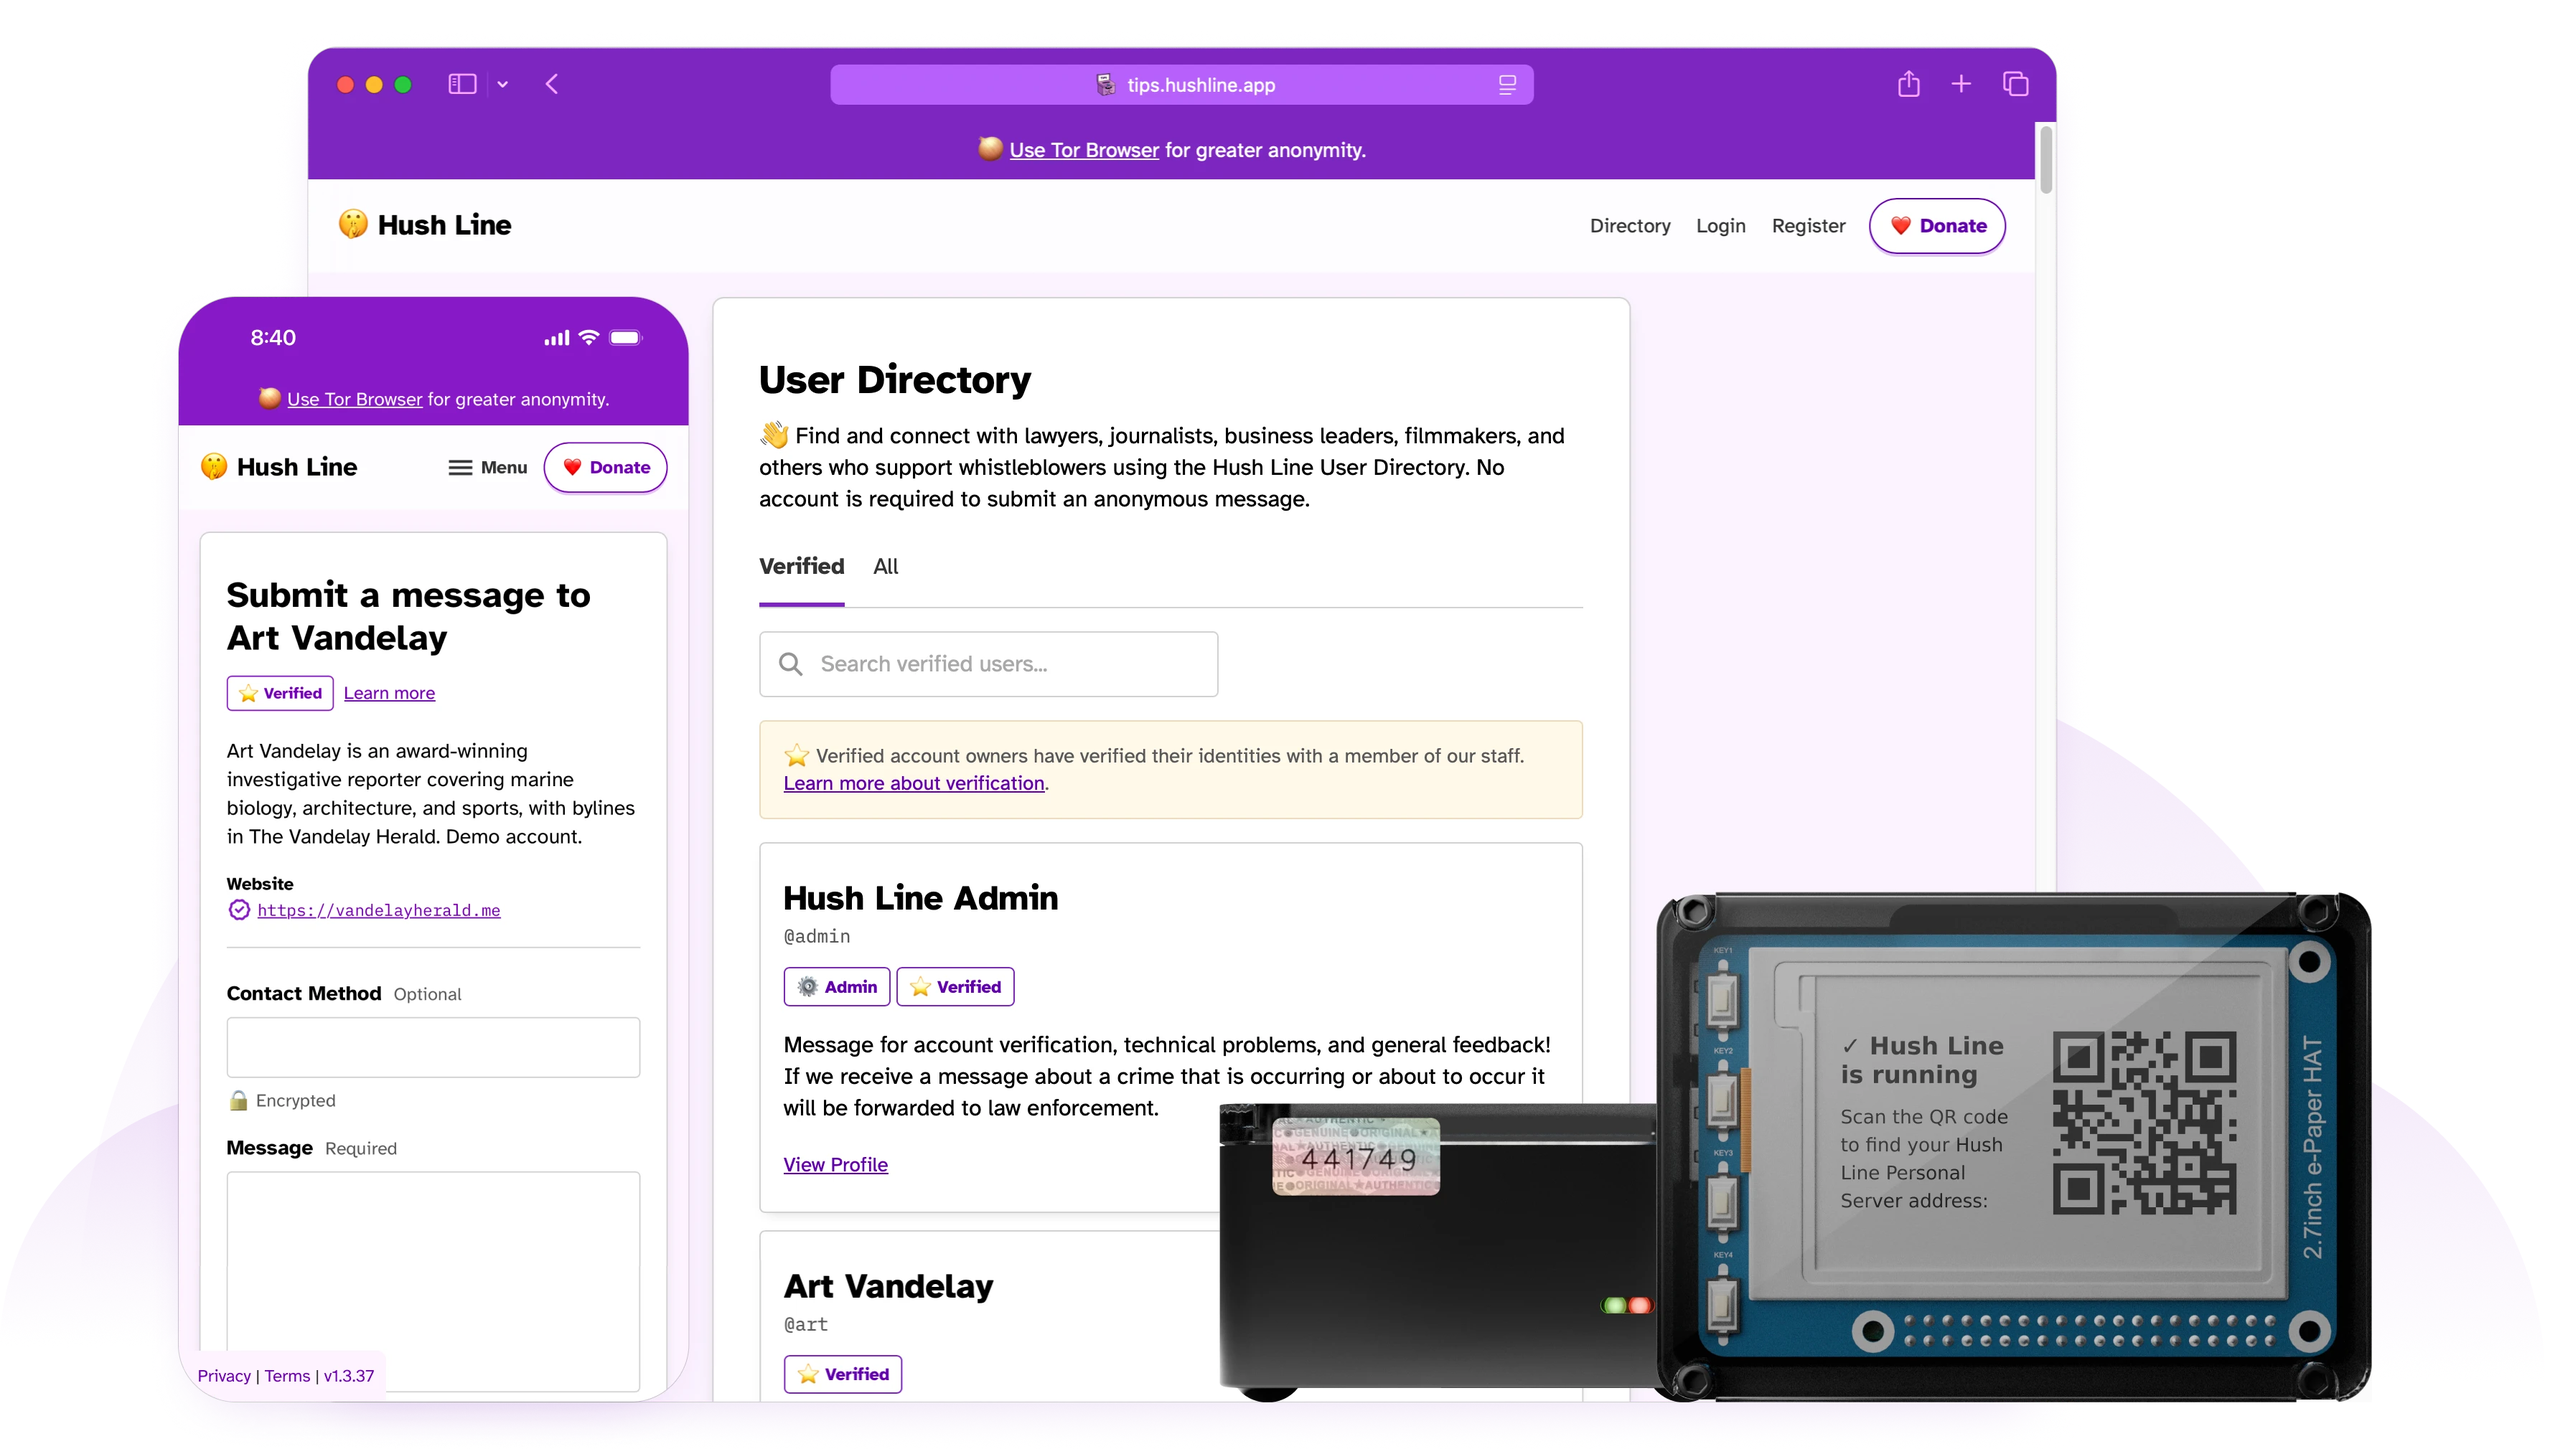
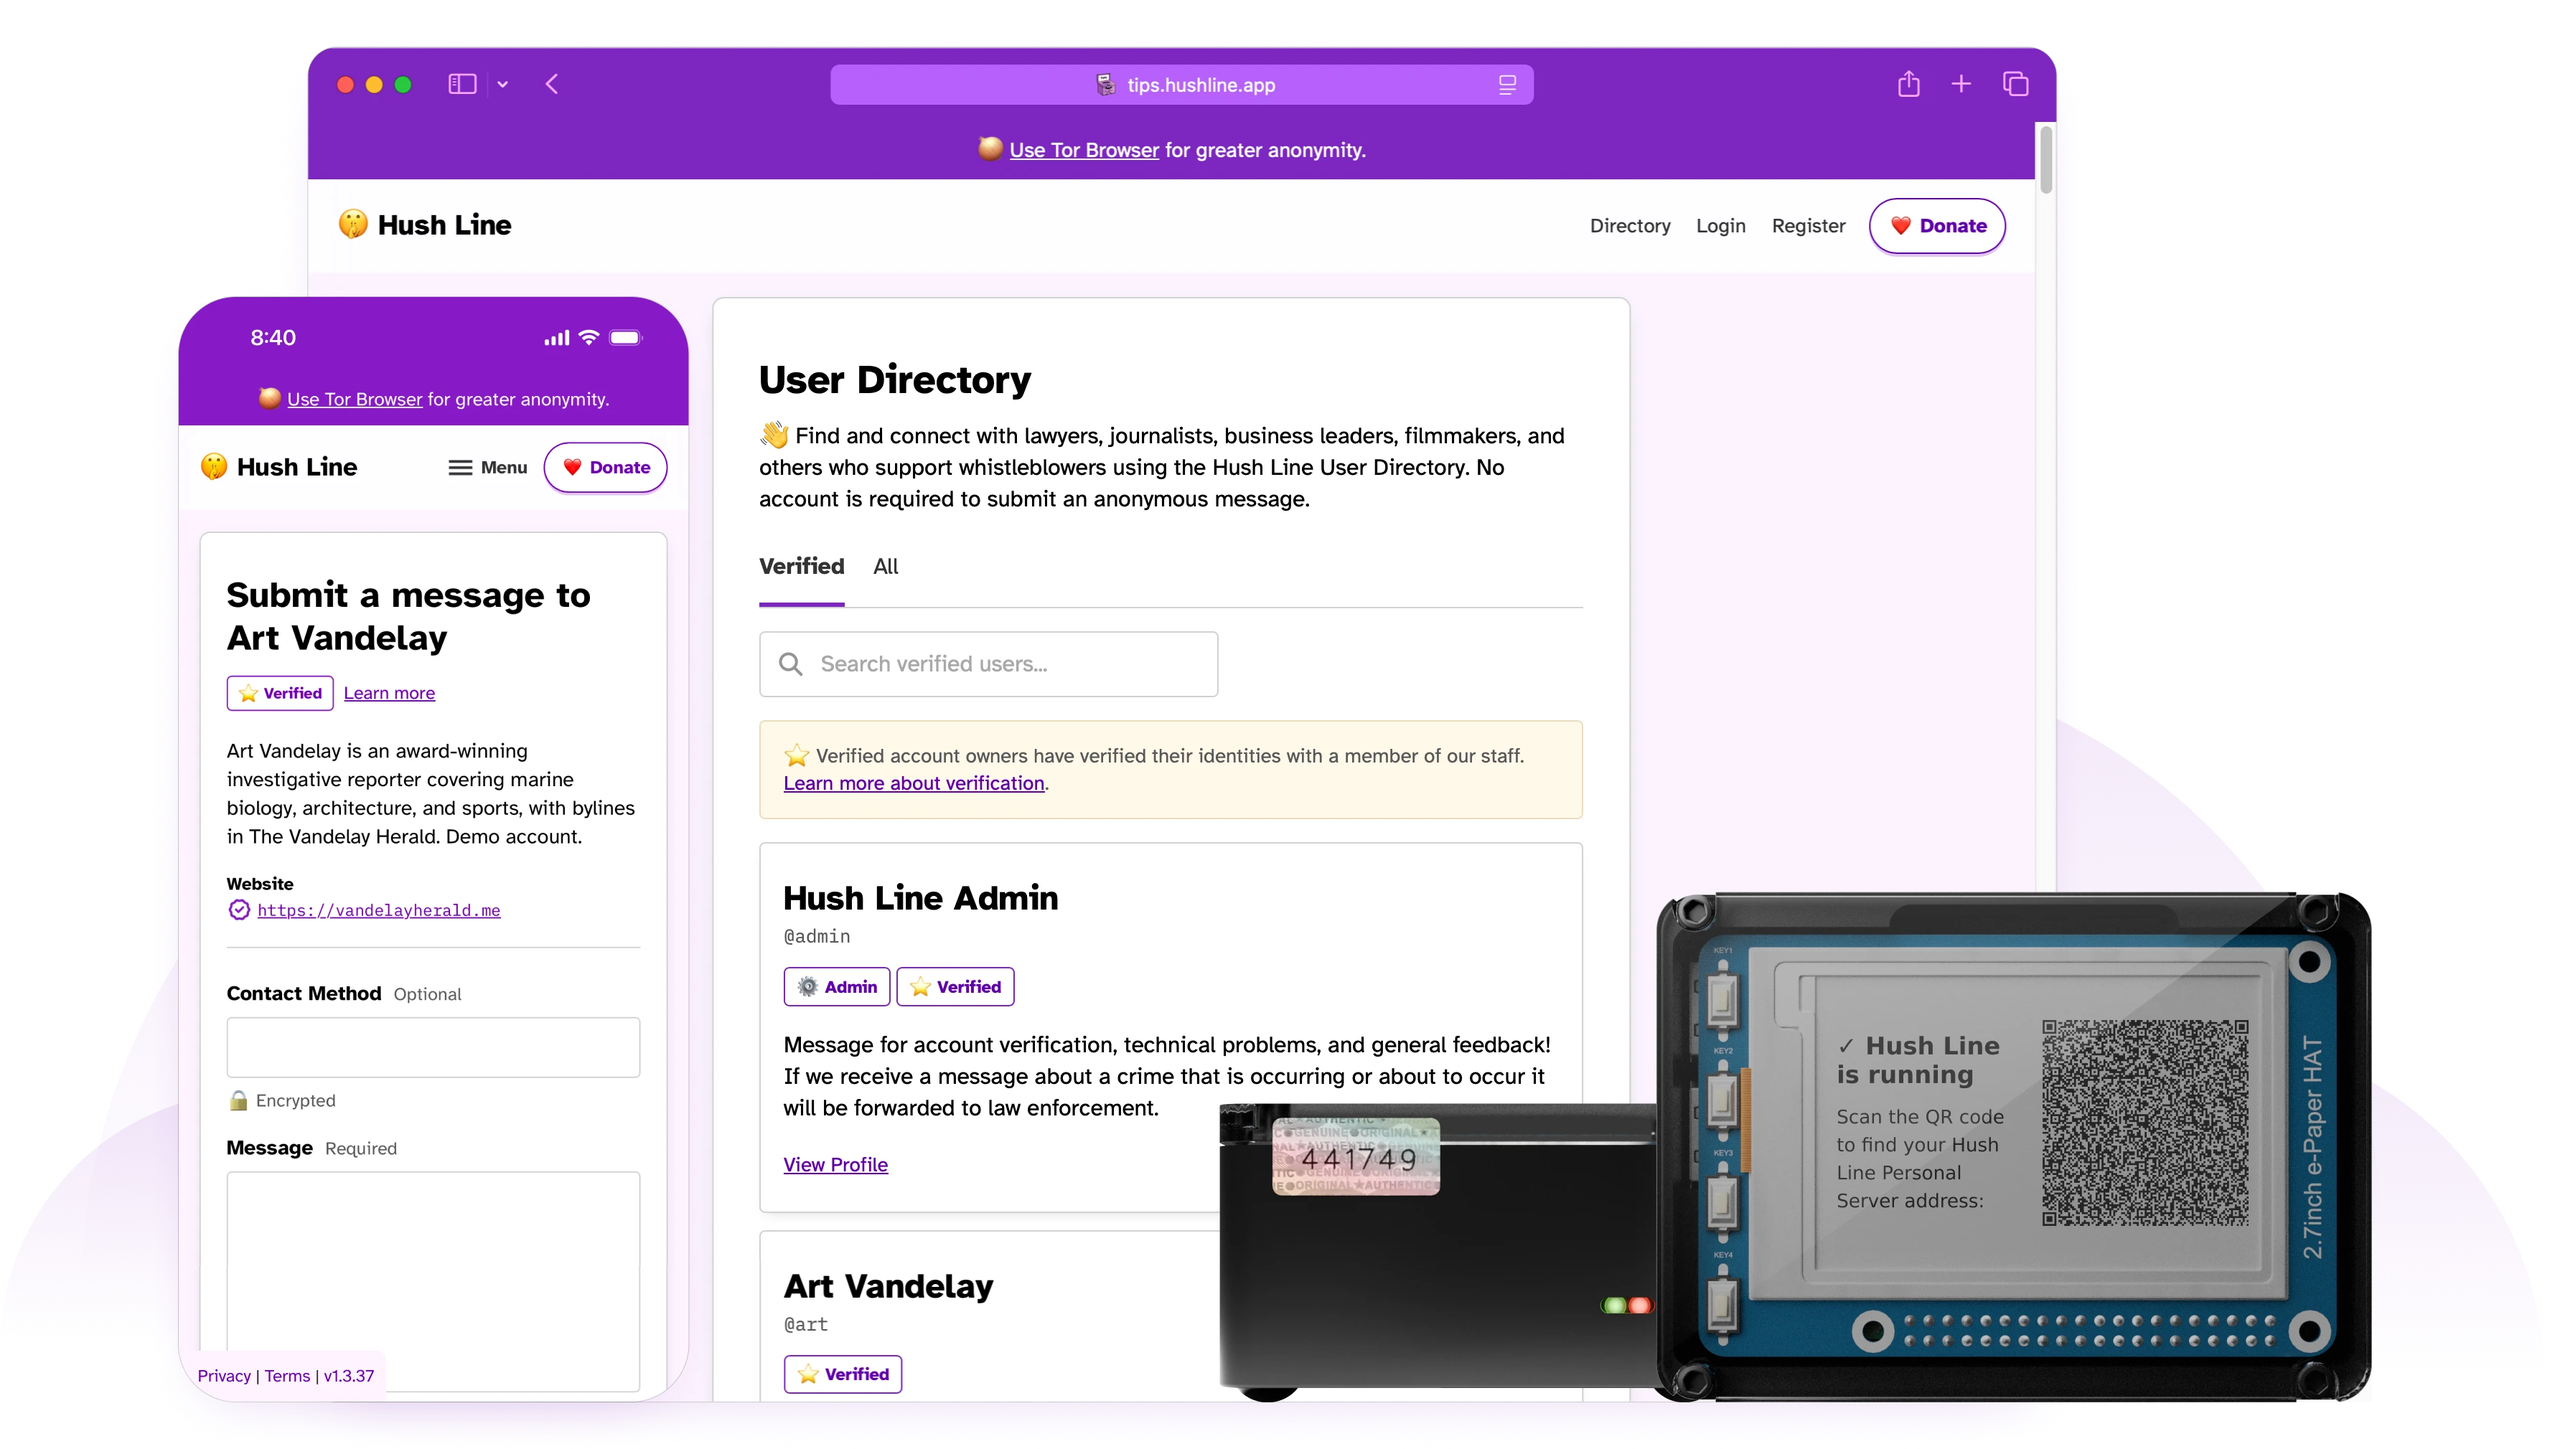
update images

Changed region(s): [[0.7185, 0.6861, 0.906, 0.8421]]

diff --git a/src/index.html b/src/index.html
@@ -216,7 +216,7 @@
                             entire Hush Line platform that you own and control. Currently only available for purchase in the US.</p>
                         <a href="https://shop.scidsg.org/products/hush-line-personal-server" class="btn" rel="noopener noreferrer" target="_blank"><span class="btn-emoji">🛒</span> Buy Now</a>
                     </div>
-                    <img src="assets/img/personal-server.jpg" alt="Personal Server Device">
+                    <img src="assets/img/personal-server.webp" alt="Personal Server Device">
                 </div>
             </div>
         </section>
